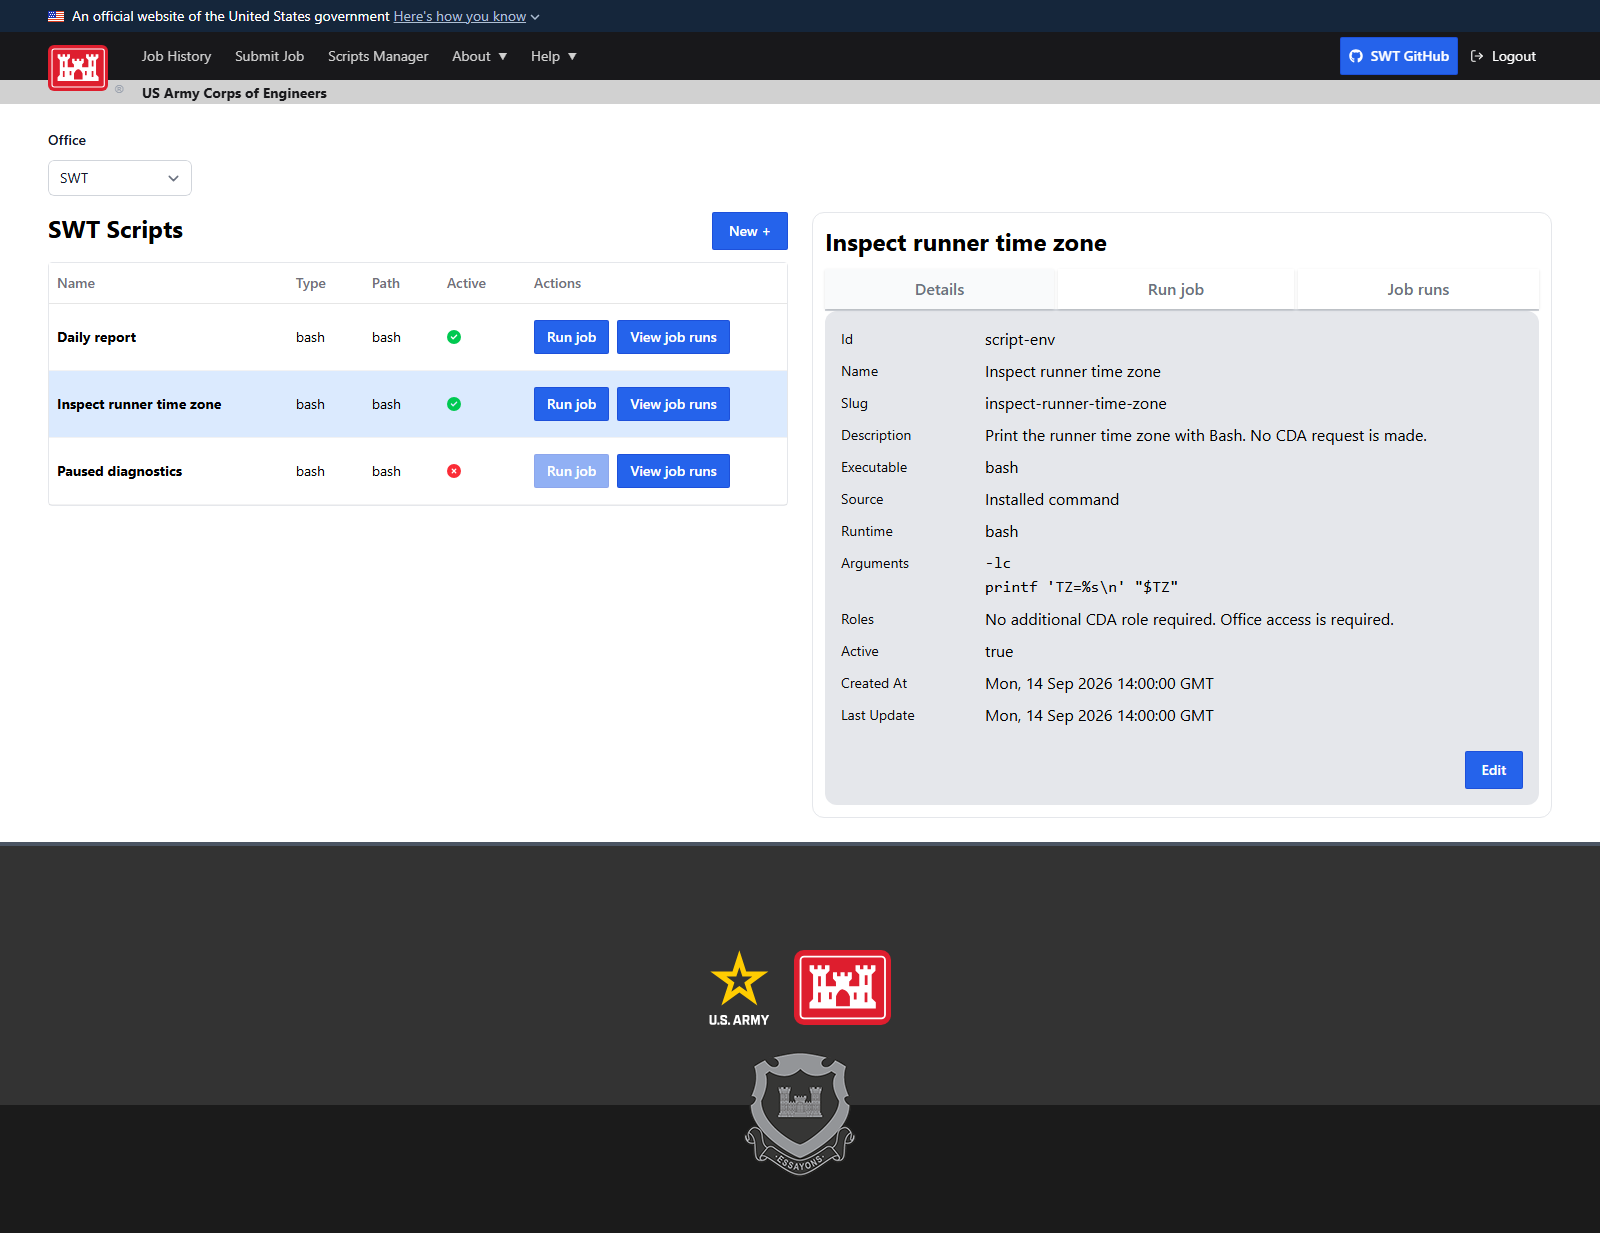
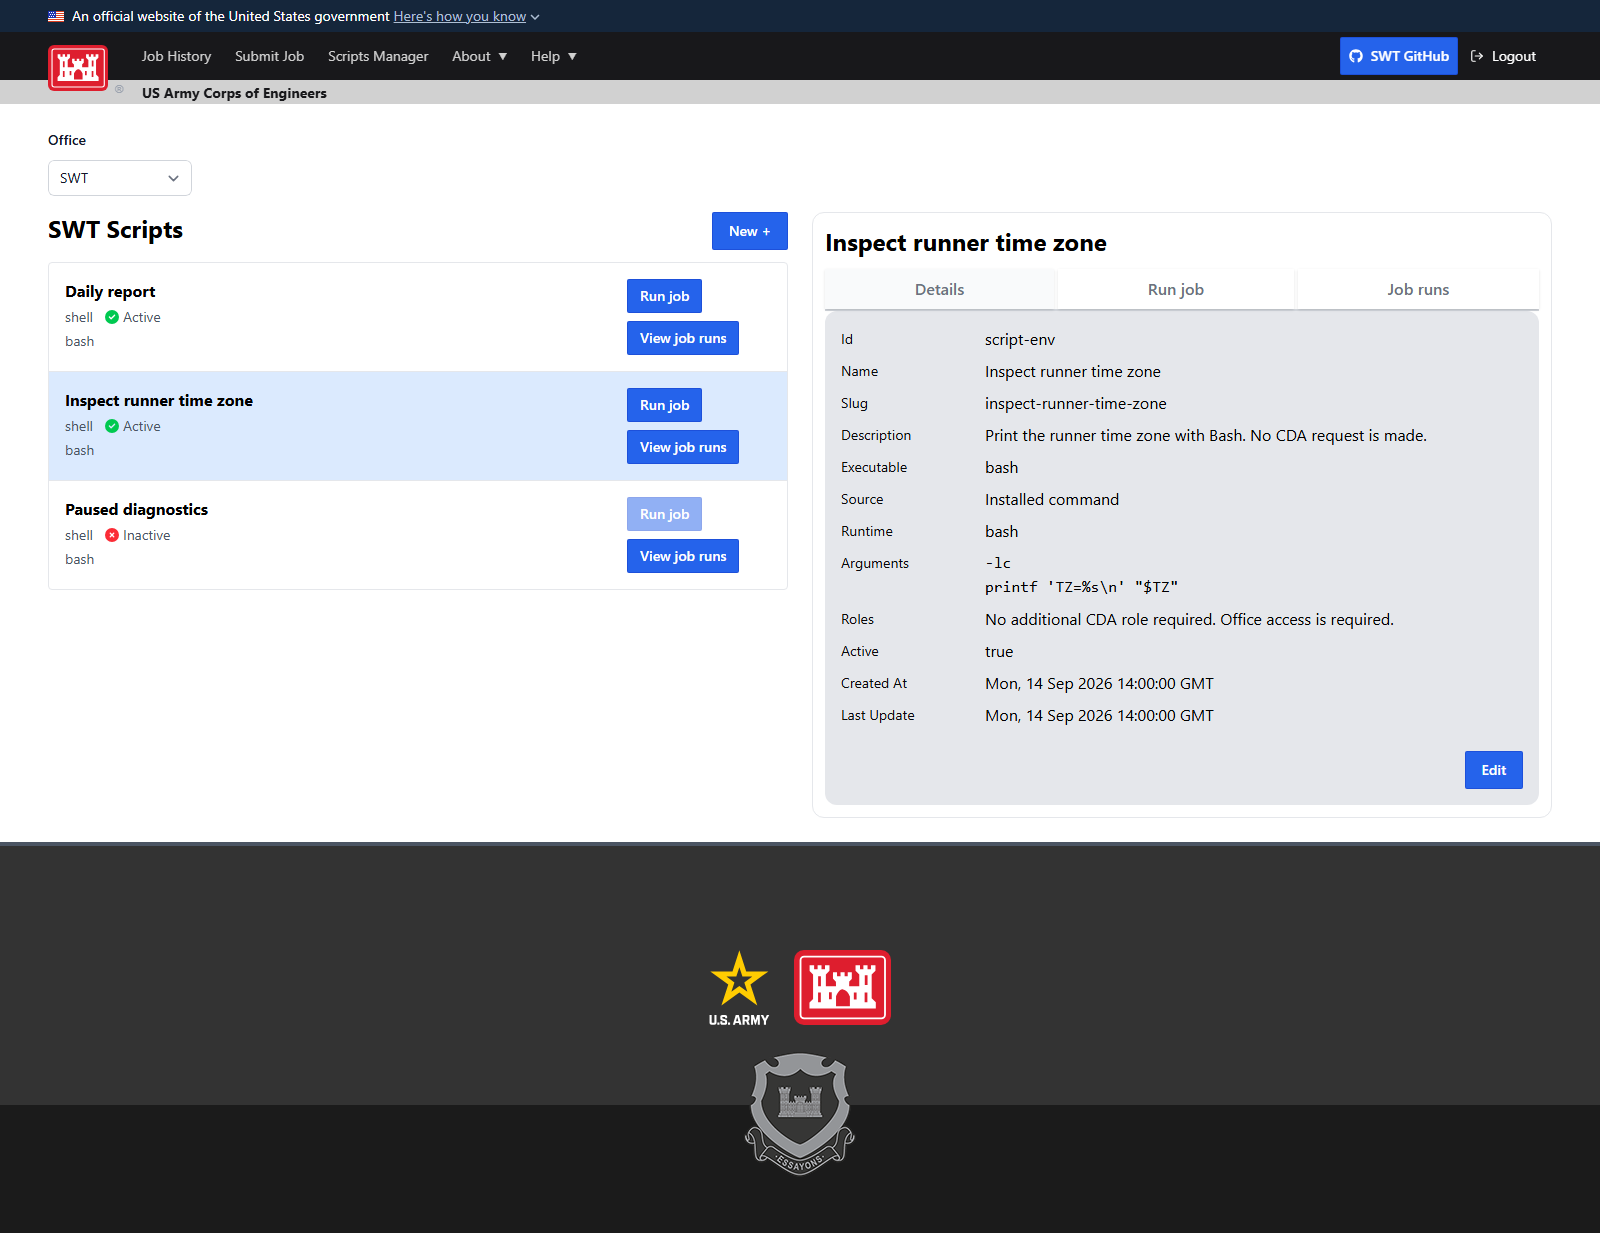
Fix Scripts Manager layout for long content and narrow screens

diff --git a/ui/tests/smoke/script-responsive-layout.spec.ts b/ui/tests/smoke/script-responsive-layout.spec.ts
@@ -1,0 +1,90 @@
+import { expect, test, type Locator } from "@playwright/test";
+import { mkdir } from "node:fs/promises";
+import { join } from "node:path";
+
+const script = {
+  id: "script-metadata", name: "Build Water Supply Metadata", slug: "build-water-supply-metadata",
+  description: "Build water supply metadata for the district.", office: "SWT",
+  executionType: "script", runtime: "java",
+  repoPath: "java-artifacts/BuildWSMetadataViaCDA/BuildWaterSupplyMetadataWithDistrictConfiguration.jar",
+  commandArgs: ["--configuration=" + "district_configuration_".repeat(8)], roles: [], active: true,
+  jobRunners: ["runner-1"], createdTime: "2026-09-14T14:00:00Z", updatedTime: "2026-09-14T14:00:00Z",
+};
+const scripts = [script, { ...script, id: "python", name: "HourlyCorpsHydropowerData2XML.py", runtime: "python", repoPath: "python/HourlyCorpsHydropowerData2XML.py" },
+  { ...script, id: "shell", name: "hourly.sh", runtime: "shell", repoPath: "bin/hourly.sh" },
+  { ...script, id: "failed", name: "StoreTurbineChangesFromXMLWithDistrictConfiguration", runtime: "python", repoPath: "python/StoreTurbineChangesFromXML.py" }];
+
+// Check the actual content boxes, including the scrollable list: document
+// width alone does not catch action buttons clipped inside a narrow panel.
+async function fits(locator: Locator) {
+  for (const element of await locator.all()) {
+    const dimensions = await element.evaluate(el => ({ tag: el.tagName, className: el.className, scroll: el.scrollWidth, client: el.clientWidth }));
+    expect(dimensions.scroll, JSON.stringify(dimensions)).toBeLessThanOrEqual(dimensions.client + 1);
+  }
+}
+
+for (const { width, largeText } of [
+  ...[320, 390, 768, 1024, 1280, 1366, 1440, 1600, 1920].map(width => ({ width, largeText: false })),
+  { width: 1280, largeText: true },
+]) {
+  test(`script actions and run details fit at ${width}px${largeText ? " with enlarged text" : ""}`, async ({ page }) => {
+    const job = {
+      id: "c0402712-808f-4465-805b-2c7057d16f63", scriptId: script.id, scriptName: script.name,
+      office: "SWT", username: "EXAMPLE.CHARLES.ROBERT.1543077719", jobStatus: "Running",
+      createdTime: new Date().toISOString(), runTime: new Date().toISOString(), endTime: null,
+    };
+    await page.route("**/api/**", async route => {
+      const path = new URL(route.request().url()).pathname;
+      if (path.endsWith("/admin-offices")) return route.fulfill({ json: ["SWT"] });
+      if (path.endsWith("/job-runners/default")) return route.fulfill({ json: { id: "runner-1", slug: "batch" } });
+      if (path.endsWith("/scripts")) return route.fulfill({ json: scripts });
+      if (path.endsWith("/jobs")) return route.fulfill({ json: [job, { ...job, id: "failure", scriptId: "failed", jobStatus: "Failed", endTime: new Date().toISOString() }] });
+      if (path.endsWith(`/jobs/${job.id}`)) return route.fulfill({ json: job });
+      return route.fulfill({ json: [] });
+    });
+    await page.setViewportSize({ width, height: 1000 });
+    await page.goto("/events/scripts-manager");
+    if (largeText) await page.addStyleTag({ content: "html { font-size: 200%; }" });
+    await page.getByRole("button", { name: "Login", exact: true }).first().click();
+    await page.getByRole("combobox").selectOption("SWT");
+    const list = page.getByRole("region", { name: "SWT scripts list" });
+    await expect(list.locator("tbody tr")).toHaveCount(scripts.length);
+    await fits(list.locator(".scripts-list-scroll, table, tbody, tbody tr, td"));
+    for (const row of await list.locator("tbody tr").all()) {
+      for (const action of await row.getByRole("button", { name: /^(Run job|View job runs)$/ }).all()) {
+        await action.scrollIntoViewIfNeeded();
+        const box = (await action.boundingBox())!;
+        const container = (await list.boundingBox())!;
+        expect(box.x).toBeGreaterThanOrEqual(container.x);
+        expect(box.x + box.width).toBeLessThanOrEqual(container.x + container.width);
+      }
+    }
+    const row = list.locator("tr").filter({ hasText: script.name });
+    await row.getByRole("button", { name: "Run job", exact: true }).click();
+    await expect(page.getByRole("button", { name: "Submit job", exact: true })).toBeVisible();
+    await fits(page.locator(".script-workspace-panel, .script-workspace-panel pre"));
+    await page.getByRole("tab", { name: "Details", exact: true }).click();
+    await fits(page.locator(".script-view-field, .script-view-field > div"));
+    await row.getByRole("button", { name: `View active run for ${script.name}` }).click();
+    await expect(page.getByRole("region", { name: "Selected job run" })).toContainText(job.username);
+    await fits(page.locator(".script-workspace-panel, .job-detail-fields, .job-detail-fields > span"));
+    // The global header has separate responsive tests. At enlarged root text
+    // size, check this workspace's bounds independently of the header.
+    const workspaceBox = (await page.locator(".scripts-workspace").boundingBox())!;
+    expect(workspaceBox.x + workspaceBox.width).toBeLessThanOrEqual(width);
+    if (!largeText) expect(await page.evaluate(() => document.documentElement.scrollWidth <= innerWidth)).toBe(true);
+    const tabs = await page.getByRole("tab").all();
+    for (let index = 1; index < tabs.length; index++) {
+      const previous = (await tabs[index - 1].boundingBox())!;
+      const current = (await tabs[index].boundingBox())!;
+      expect(current.x >= previous.x + previous.width - 1 || current.y >= previous.y + previous.height - 1).toBe(true);
+    }
+    if (process.env.PR_SCREENSHOT_DIR) {
+      await mkdir(process.env.PR_SCREENSHOT_DIR, { recursive: true });
+      await list.locator(".scripts-list-scroll").evaluate(el => { el.scrollTop = 0; });
+      await page.evaluate(() => window.scrollTo(0, 0));
+      await page.mouse.move(0, 0);
+      await page.screenshot({ path: join(process.env.PR_SCREENSHOT_DIR, `scripts-${width}${largeText ? "-large-text" : ""}.png`), fullPage: true });
+    }
+  });
+}

diff --git a/ui/src/features/scripts-manager/ScriptsList.tsx b/ui/src/features/scripts-manager/ScriptsList.tsx
@@ -1,12 +1,4 @@
-import {
-  Table,
-  TableBody,
-  TableRow,
-  TableHead,
-  TableHeader,
-  TableCell,
-  Button,
-} from "@usace/groundwork";
+import { Button } from "@usace/groundwork";
 import { FaCircleCheck, FaCircleXmark } from "react-icons/fa6";
 import type { Script } from "../scripts-manager/types";
 import type { JobDetails } from "../jobs-list/useJobDetails";
@@ -40,25 +32,14 @@ export const ScriptsList = ({
   jobsUpdatedAt,
 }: ScriptsListProps) => {
   return (
-    <Table
-      overflow
-      stickyHeader
-      overflowHeight="min-h-48 max-h-72 overscroll-contain xl:max-h-[65vh]"
-    >
-      <TableHead>
-        <TableRow>
-          <TableHeader>Name</TableHeader>
-          <TableHeader>Type</TableHeader>
-          <TableHeader>Path</TableHeader>
-          <TableHeader>Active</TableHeader>
-          <TableHeader>Actions</TableHeader>
-        </TableRow>
-      </TableHead>
-      <TableBody>
+    <div className="scripts-list-scroll">
+    <table className="scripts-list" aria-label="Scripts">
+      <thead className="sr-only"><tr><th scope="col">Script</th><th scope="col">Actions</th></tr></thead>
+      <tbody>
         {[...scripts]
           .sort((a, b) => a.name.localeCompare(b.name))
           .map((script) => (
-            <TableRow
+            <tr
               key={script.id}
               tabIndex={0}
               aria-selected={script.id === selectedScriptId}
@@ -76,31 +57,28 @@ export const ScriptsList = ({
                   : "cursor-pointer hover:bg-gray-100"
               }
             >
-              <TableCell>
+              <td className="min-w-0 [overflow-wrap:anywhere]">
                 <span className="font-bold">{script.name}</span>
+                <div className="mt-1 flex flex-wrap items-center gap-x-3 gap-y-1 text-sm text-gray-600">
+                  <span>{script.runtime}</span>
+                  <span className="inline-flex items-center gap-1"><ActiveIcon isActive={script.active} />{script.active ? "Active" : "Inactive"}</span>
+                </div>
+                <span className="mt-1 block text-sm text-gray-600">{script.repoPath}</span>
                 <ScriptRunIndicators
                   jobs={jobs.filter(job => job.scriptId === script.id && job.office === script.office)}
                   now={jobsUpdatedAt} scriptName={script.name}
                   onSelectRun={jobId => selectScript(script.id, 2, jobId)} />
-              </TableCell>
-              <TableCell>
-                {script.executionType === "command"
-                  ? script.repoPath
-                  : script.runtime}
-              </TableCell>
-              <TableCell><span className="block max-w-32 truncate sm:max-w-64" title={script.repoPath}>{script.repoPath}</span></TableCell>
-              <TableCell>
-                <ActiveIcon isActive={script.active} />
-              </TableCell>
-              <TableCell>
+              </td>
+              <td className="script-row-actions">
                 <div className="flex flex-wrap gap-2" onClick={(event) => event.stopPropagation()}>
                   <Button size="sm" disabled={!script.active} onClick={() => selectScript(script.id, 1)}>Run job</Button>
                   <Button size="sm" onClick={() => selectScript(script.id, 2)}>View job runs</Button>
                 </div>
-              </TableCell>
-            </TableRow>
+              </td>
+            </tr>
           ))}
-      </TableBody>
-    </Table>
+      </tbody>
+    </table>
+    </div>
   );
 };

diff --git a/ui/src/index.css b/ui/src/index.css
@@ -1,6 +1,52 @@
 @import "tailwindcss";
 @import "@usace/groundwork/dist/groundwork.css" layer(components);
 
+/* Size the workspace from the space available inside the page, including
+   browser zoom and the surrounding navigation/container padding. */
+.scripts-workspace {
+  display: grid;
+  grid-template-columns: repeat(auto-fit, minmax(min(100%, 36rem), 1fr));
+  gap: 1.5rem;
+}
+
+.scripts-list-scroll {
+  container-type: inline-size;
+  max-height: 65vh;
+  overflow-y: auto;
+  overscroll-behavior: contain;
+}
+
+.scripts-list, .scripts-list tbody { display: block; width: 100%; }
+.scripts-list tr {
+  display: grid;
+  grid-template-columns: minmax(0, 1fr);
+  gap: 0.75rem;
+  padding: 1rem;
+  border-bottom: 1px solid var(--color-gray-200);
+}
+.scripts-list tr:last-child { border-bottom: 0; }
+.scripts-list tr:focus-visible { outline: 2px solid var(--color-blue-600); outline-offset: -2px; }
+.scripts-list td { display: block; }
+.script-row-actions { align-self: center; }
+@container (min-width: 34rem) {
+  .scripts-list tr { grid-template-columns: minmax(0, 1fr) 9rem; }
+}
+
+.script-workspace-panel { container-type: inline-size; }
+@container (min-width: 30rem) {
+  .script-view-field { grid-template-columns: 120px minmax(0, 1fr); gap: 1.5rem; }
+}
+.job-detail-fields {
+  display: grid;
+  grid-template-columns: minmax(0, 1fr);
+  gap: 0.25rem 1rem;
+}
+.job-detail-container { container-type: inline-size; }
+@container (min-width: 32rem) {
+  .job-detail-fields { grid-template-columns: repeat(2, minmax(0, 1fr)); }
+}
+.job-detail-wide { grid-column: 1 / -1; }
+
 /* Groundwork gives navRight a full-width slot. Size our compact actions to
    their contents so the navigation links retain room at tablet widths. */
 header span:has(> .batch-header-actions) {

diff --git a/ui/src/features/jobs-list/JobDetail.tsx b/ui/src/features/jobs-list/JobDetail.tsx
@@ -31,12 +31,12 @@ interface JobDetailProps {
 
 function JobDetail({ job }: JobDetailProps) {
   return (
-    <>
-      <div className="min-w-0 grow grid grid-cols-1 gap-x-4 py-3 sm:grid-cols-2">
+    <div className="job-detail-container min-w-0 grow">
+      <div className="job-detail-fields min-w-0 grow py-3">
         {jobFields.map((field) => {
           const className = wideFields.includes(field)
-            ? "sm:col-span-2"
-            : "col-span-1";
+            ? "job-detail-wide"
+            : "";
           return (
             <JobDetailField key={field} field={fieldLabels[field] ?? field} className={className}>
               {field === "jobStatus" ? (
@@ -57,7 +57,7 @@ function JobDetail({ job }: JobDetailProps) {
           );
         })}
       </div>
-    </>
+    </div>
   );
 }
 
@@ -71,8 +71,8 @@ const JobDetailField = ({
   className,
   children,
 }: PropsWithChildren<JobDetailFieldProps>) => (
-  <span className={`min-w-0 break-words px-3 py-1.5 ${className}`}>
-    <strong>{field}</strong>: {children}
+  <span className={`min-w-0 [overflow-wrap:anywhere] px-3 py-1.5 ${className}`}>
+    <strong className="block">{field}:</strong> {children}
   </span>
 );
 

diff --git a/ui/src/features/scripts-manager/ScriptsWorkspace.tsx b/ui/src/features/scripts-manager/ScriptsWorkspace.tsx
@@ -120,7 +120,7 @@ export const ScriptsWorkspace = ({ office }: ScriptsWorkspaceProps) => {
     updateScriptMutation.error;
 
   return (
-    <div className={`w-full grid grid-cols-1 gap-6 mt-4 ${scripts.data.length > 0 ? "xl:grid-cols-2" : ""}`}>
+    <div className="scripts-workspace w-full mt-4">
       <div className="min-w-0">
         <header className="flex justify-between">
           <H2>{office.toUpperCase()} Scripts</H2>
@@ -152,7 +152,7 @@ export const ScriptsWorkspace = ({ office }: ScriptsWorkspaceProps) => {
           />
         </div>}
       </div>
-      {scripts.data.length > 0 && <div className="min-w-0 self-start rounded-xl border border-gray-200 bg-white p-3">
+      {scripts.data.length > 0 && <div className="script-workspace-panel min-w-0 self-start rounded-xl border border-gray-200 bg-white p-3 [overflow-wrap:anywhere]">
       {selectedScript ? <>
         <H2 className="mb-3 break-words">{selectedScript.name}</H2>
         <Tabs key={`${selectedScript.id}:${panelTab.revision}`} defaultIndex={panelTab.index} fill tabs={[

diff --git a/ui/src/features/scripts-manager/ScriptView.tsx b/ui/src/features/scripts-manager/ScriptView.tsx
@@ -38,7 +38,7 @@ export const ScriptView = ({ script, onEdit }: ScriptViewProps) => {
                 : "GitHub Repo Path"
             }
           >
-            <span className="block truncate" title={script.repoPath}>{script.repoPath}</span>
+            <span className="block [overflow-wrap:anywhere]">{script.repoPath}</span>
           </ViewField>
           <ViewField label="Source">
             {script.executionType === "command"

diff --git a/ui/src/features/scripts-manager/ViewField.tsx b/ui/src/features/scripts-manager/ViewField.tsx
@@ -21,7 +21,7 @@ export const ViewField = ({
   children,
 }: PropsWithChildren<ViewFieldProps>) => {
   return (
-    <div className="grid min-w-0 grid-cols-[120px_minmax(0,1fr)] gap-6">
+    <div className="script-view-field min-w-0 grid gap-1 [overflow-wrap:anywhere]">
       <ViewLabel>{label}</ViewLabel>
       <div className="min-w-0">{children}</div>
     </div>

diff --git a/docs/script-manager.md b/docs/script-manager.md
@@ -9,6 +9,24 @@
    **Refresh** reloads the list. **Job History** shows your runs across all scripts.
 
 The Groundwork tabs keep details, submission, and run output in the selected script's workspace.
+Each row groups the script name, runtime, active state, and full path. Actions appear beside
+that information when space permits and below it on smaller screens. The selected script
+appears beside the list on wide screens and below it on narrower screens. Long paths and
+run details wrap so the action buttons remain reachable without horizontal scrolling.
+
+<details>
+<summary>Wide-screen and phone layouts</summary>
+
+On a wide screen, the script list and selected run share the workspace:
+
+![Scripts Manager at 1366 pixels with long names and paths](../ui/public/about/scripts-manager-desktop.png)
+
+On a phone, scroll the script list to choose a script, then scroll down to its tabs:
+
+<img src="../ui/public/about/scripts-manager-mobile.png" alt="Scripts Manager at 390 pixels with stacked actions and run details" width="390" />
+
+</details>
+
 Script rows show a spinner for your queued or running jobs and a warning for your most recent
 failure within the past 24 hours. Click either indicator to open that exact run in **Job runs**.
 Running jobs also show spinners in the run list. The manager refreshes run status every five
@@ -55,3 +73,8 @@ Capture updates with `PR_SCREENSHOT_DIR` set while running
 definitions and output; these images demonstrate the UI, not an AWS execution.
 Keep PR-only screenshots outside the repository and copy only the intended documentation
 images into `ui/public/about/`.
+
+`ui/tests/smoke/script-responsive-layout.spec.ts` checks long names, paths, arguments,
+and usernames at nine widths from 320 to 1920 pixels, plus 200% text size. It checks
+the list and individual content boxes for overflow, verifies action-button bounds,
+and exercises all three tabs. Set `PR_SCREENSHOT_DIR` to capture each layout.
